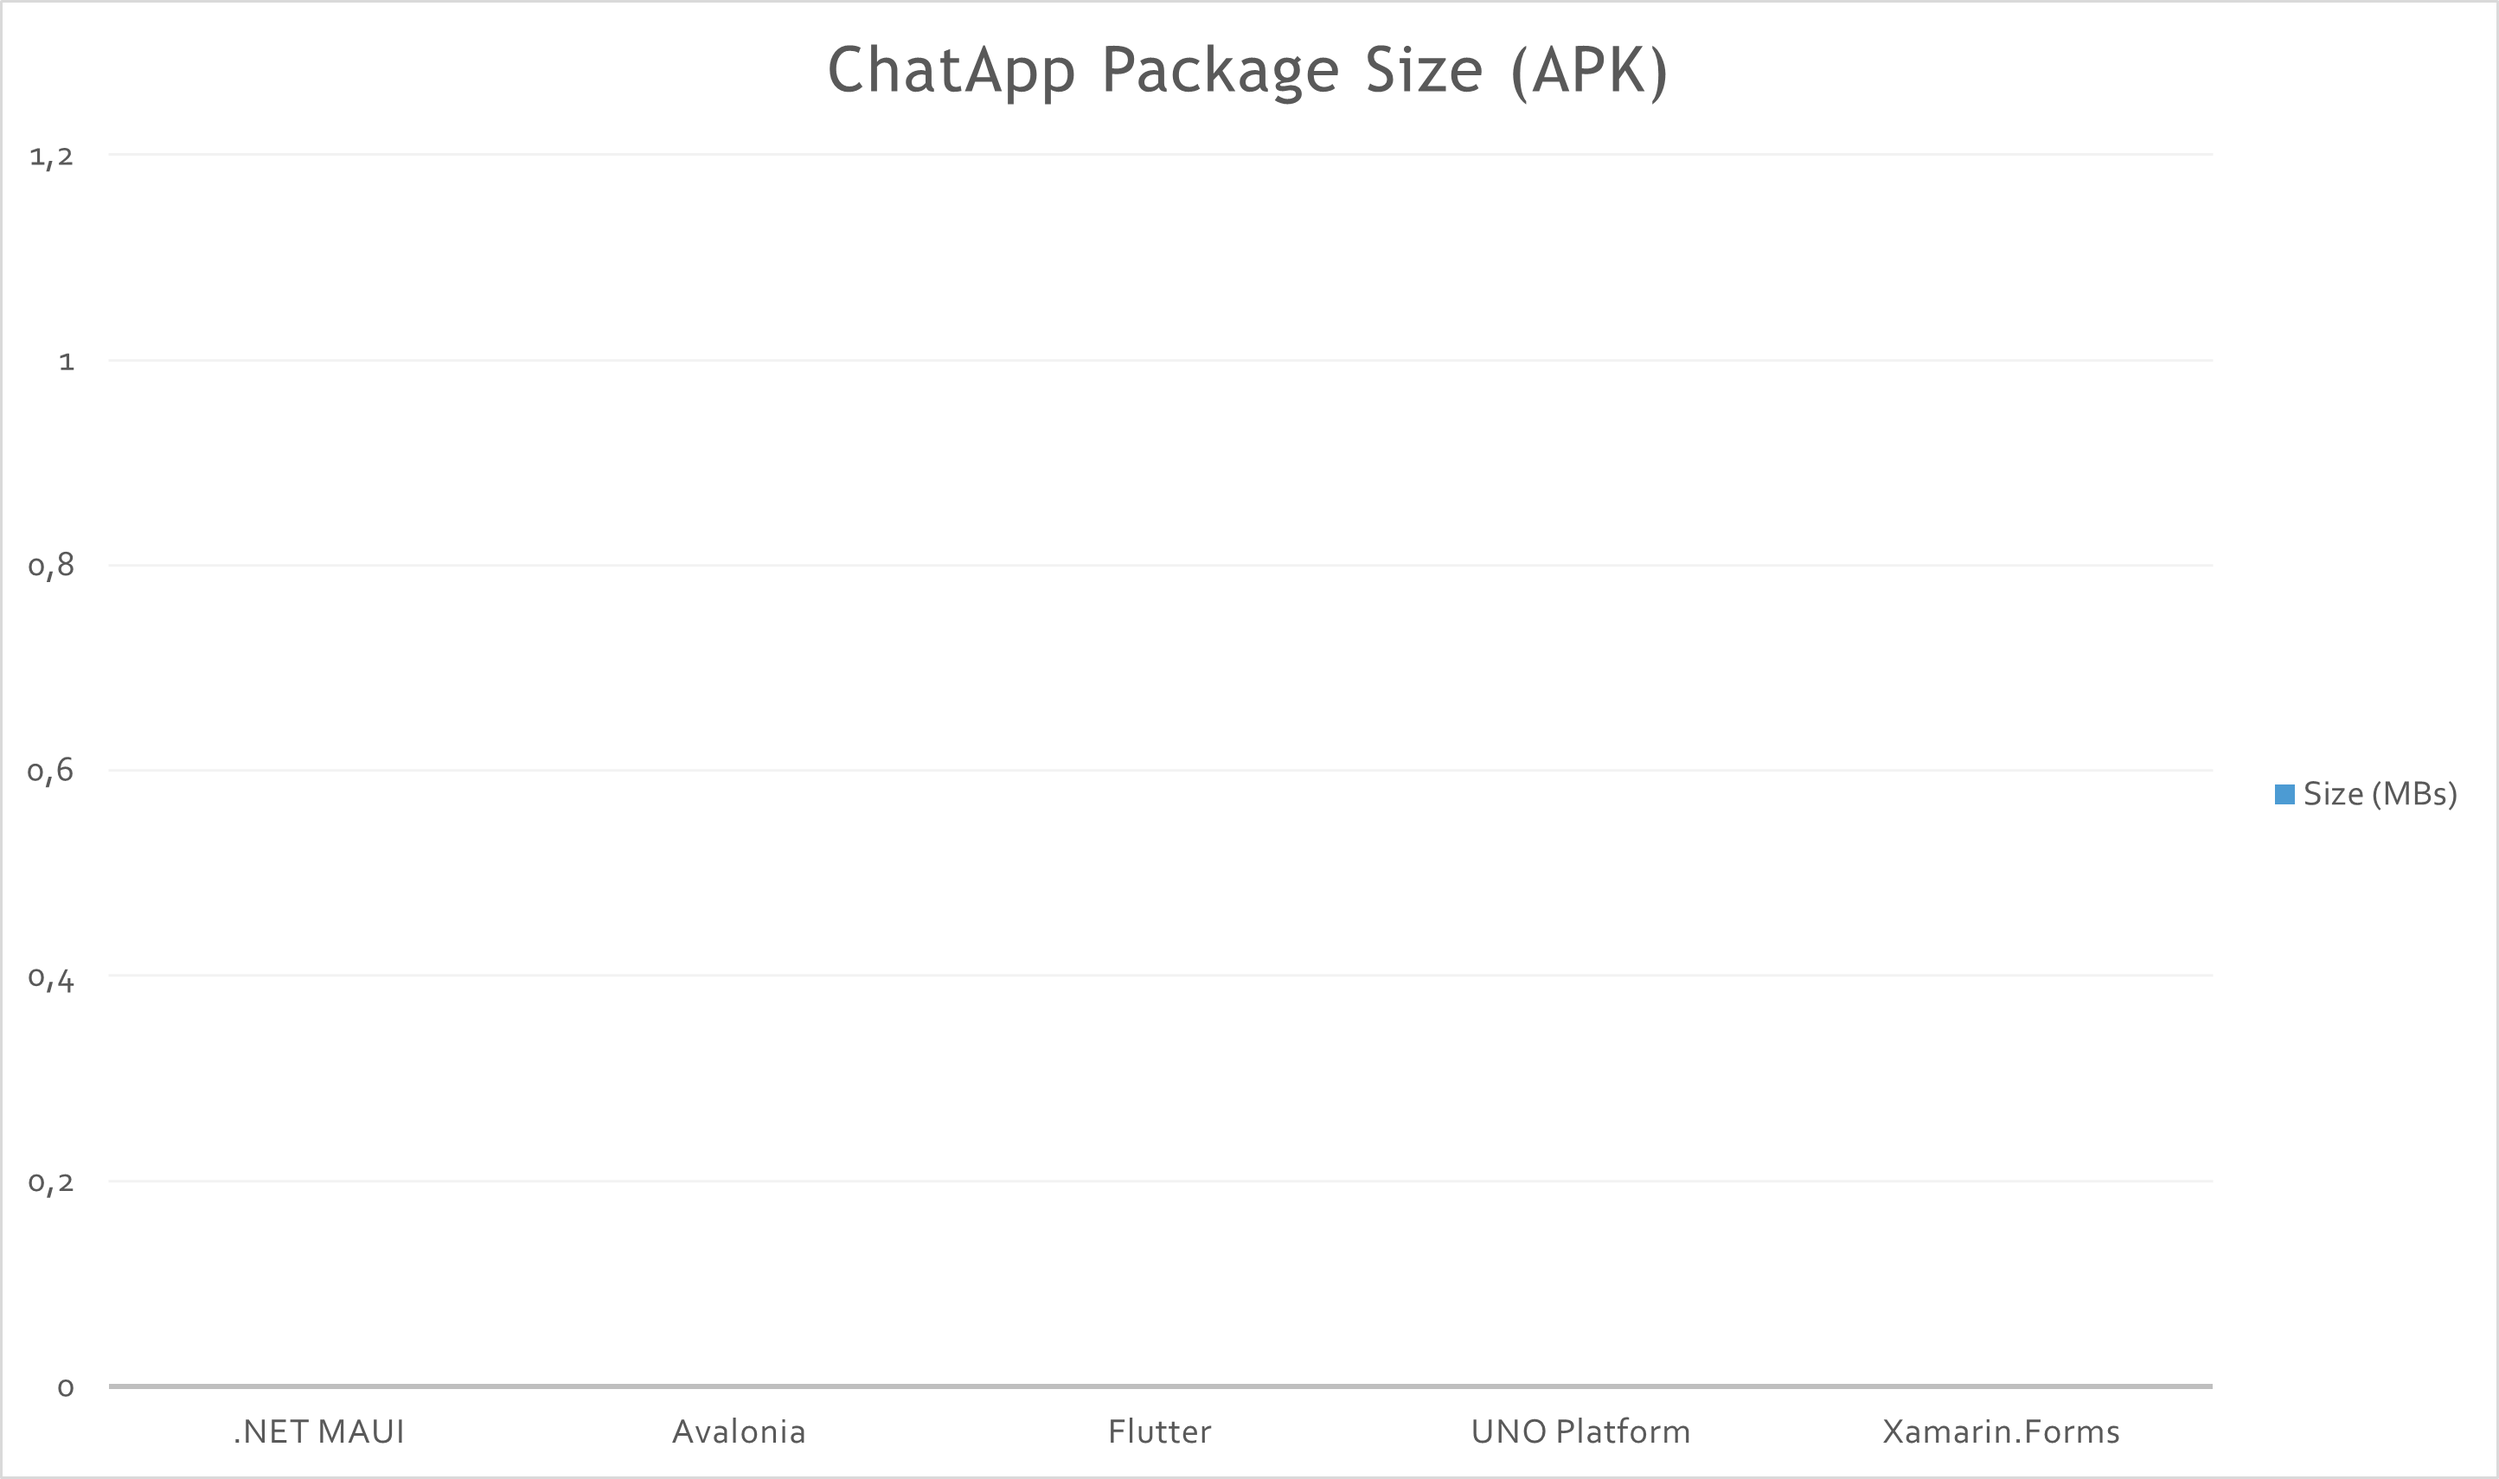
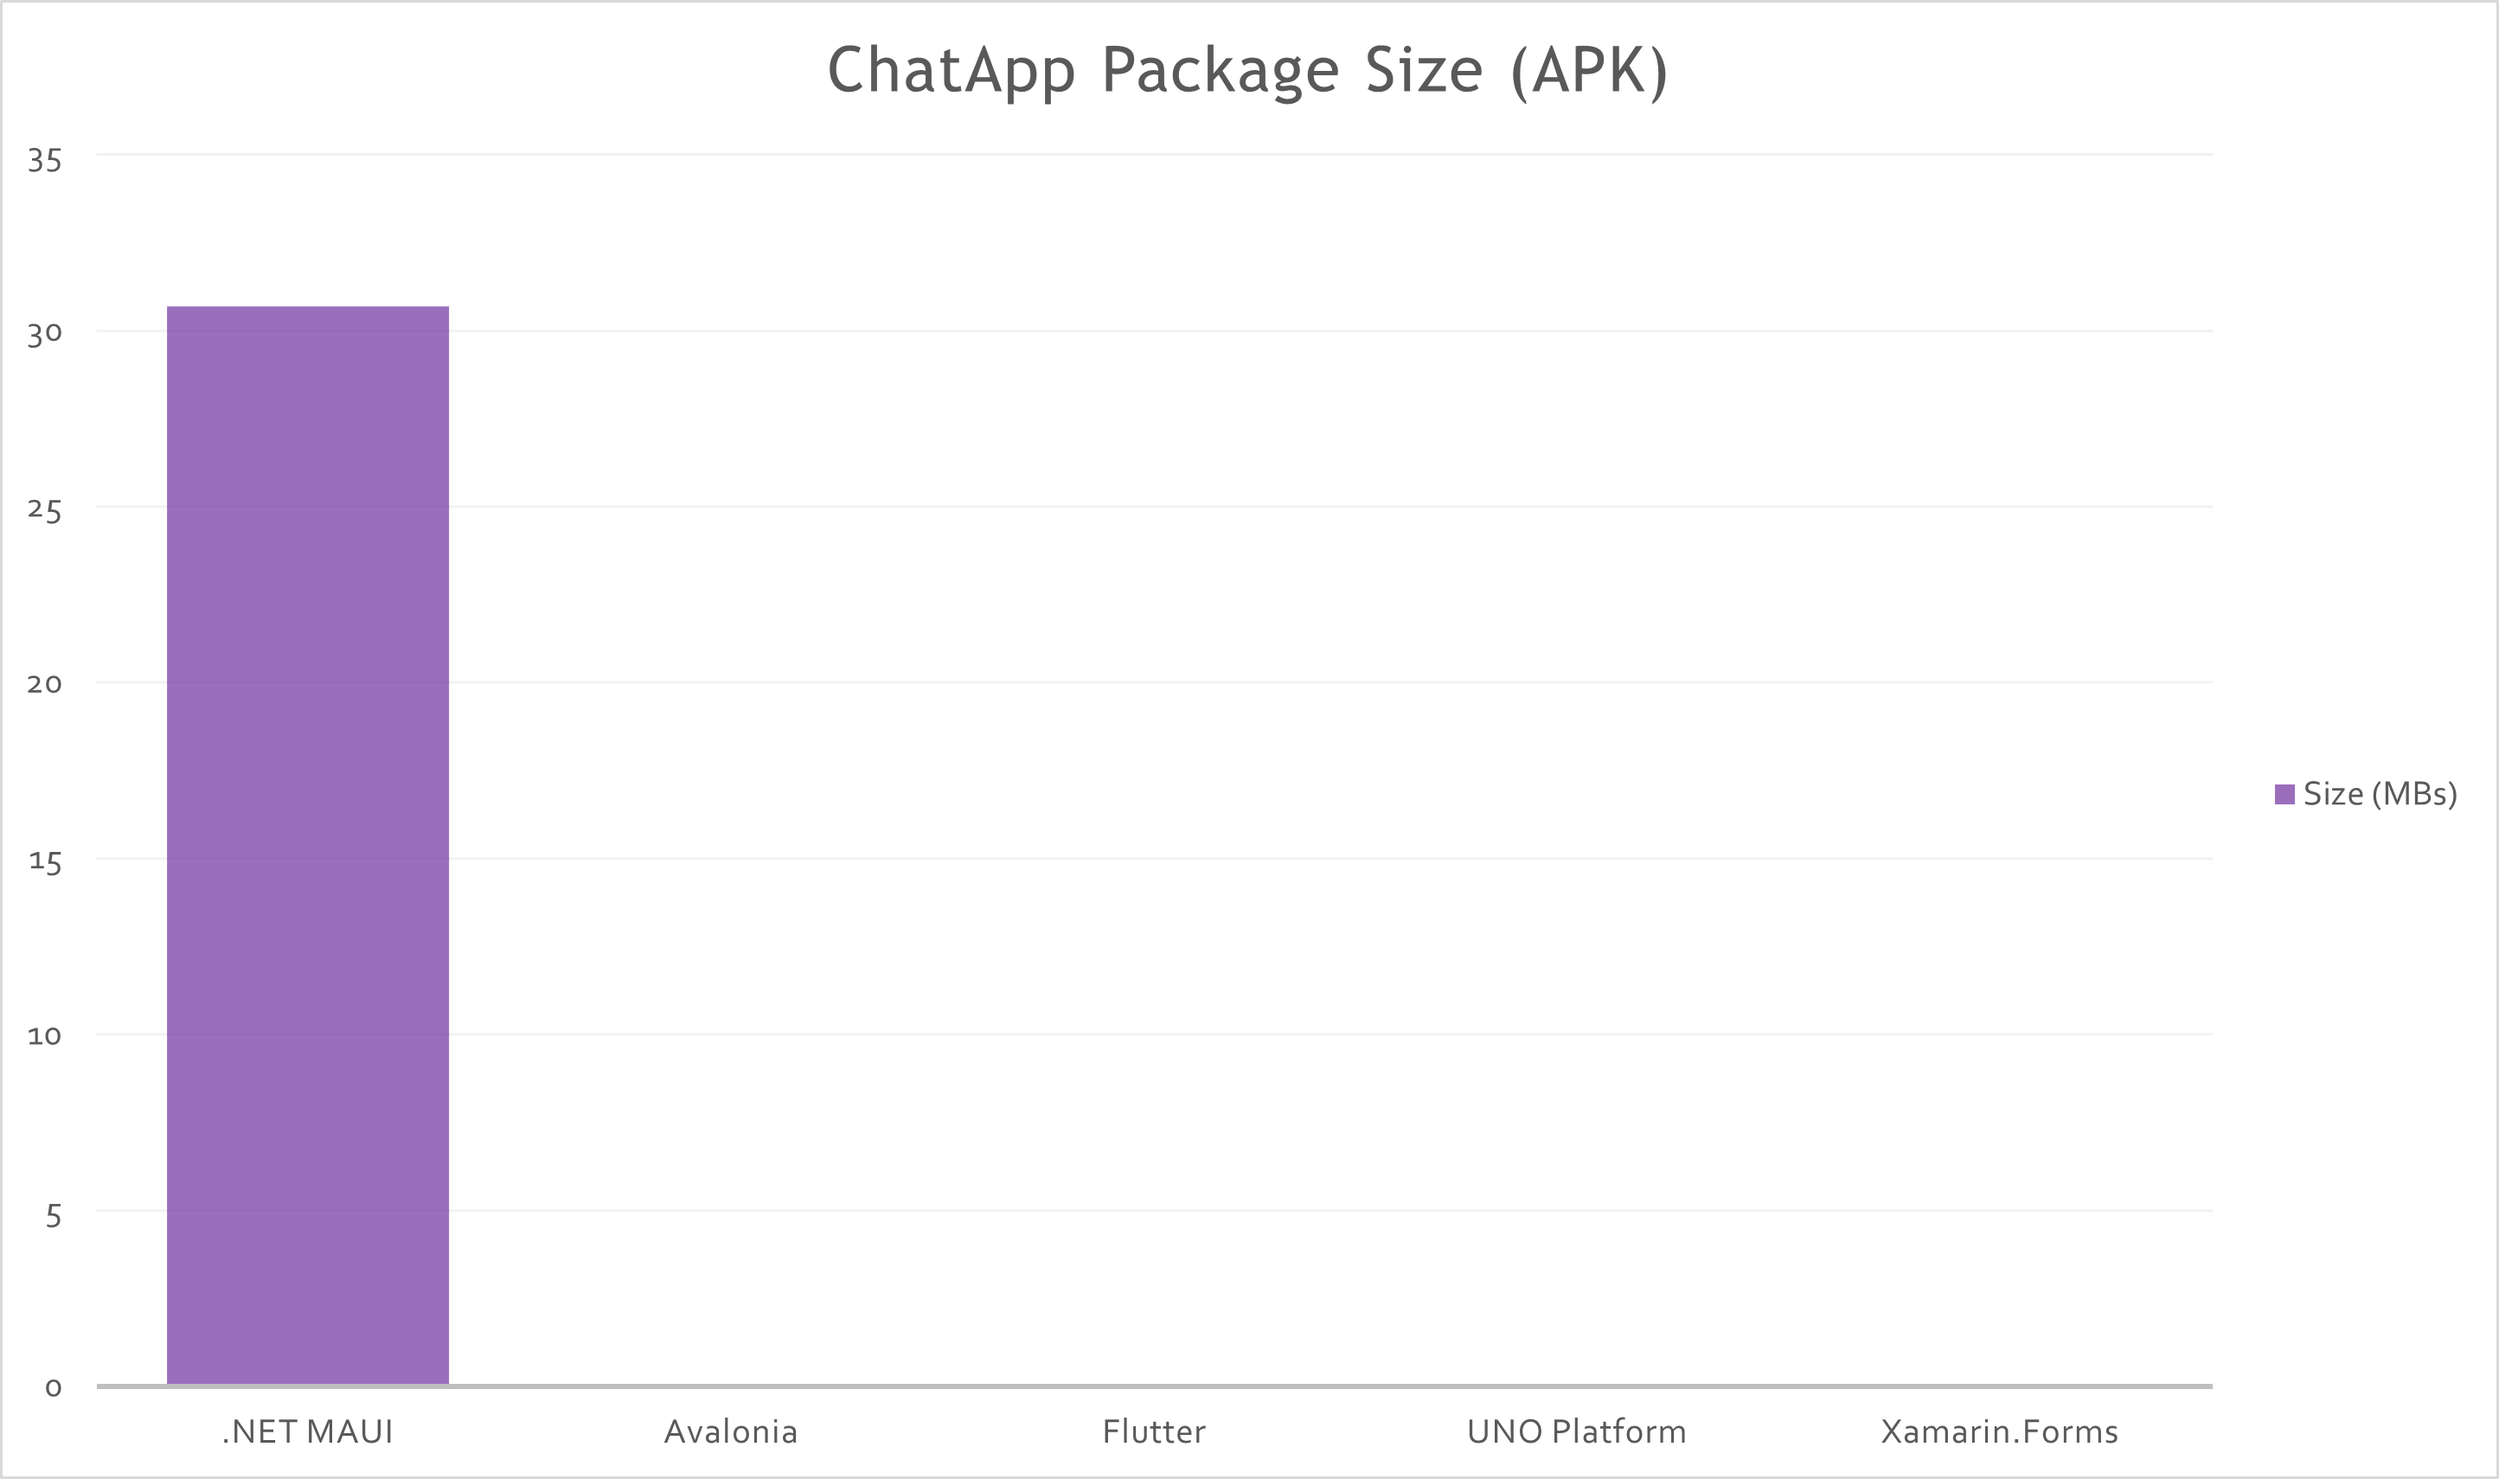
Added ChatApp MAUI data

diff --git a/README.md b/README.md
@@ -58,7 +58,7 @@ _NOTE: A Poco F2 Pro has been used to obtain the data._
 
 | Android App | Framework           | Profiled AOT Time(ms) |
 |-------------|---------------------| ---------------------:|
-| ChatApp    |  .NET MAUI          |                 - |
+| ChatApp    |  .NET MAUI          |                 716.9 |
 | ChatApp    |  Avalonia           |                 - |
 | ChatApp    |  Flutter            |                 - |
 | ChatApp    |  UNO Platform       |                 - |
@@ -70,7 +70,7 @@ _NOTE: A Poco F2 Pro has been used to obtain the data._
 
 | Android App | Framework           | Profiled AOT Time(MBs) |
 |-------------|---------------------| ---------------------:|
-| ChatApp    |  .NET MAUI          |                 - |
+| ChatApp    |  .NET MAUI          |                 30.7 |
 | ChatApp    |  Avalonia           |                 - |
 | ChatApp    |  Flutter            |                 - |
 | ChatApp    |  UNO Platform       |                 - |
